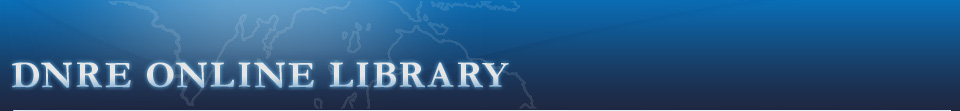
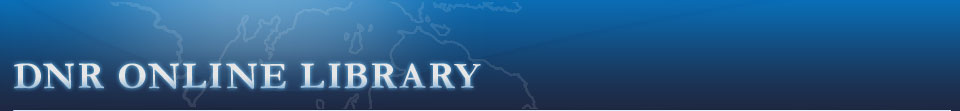
New graphics, and changes needed to display them

Changed region(s): [[0.0, 0.5405, 0.5312, 0.8378]]

diff --git a/theme/stylesheets/screen/core.css b/theme/stylesheets/screen/core.css
@@ -316,6 +316,7 @@ body  .wrapper {
 	display: inline;
 	margin-left: 4px;
 }
+#nav-home a,
 #nav-seek a,
 #nav-discover a
  {
@@ -326,13 +327,18 @@ body  .wrapper {
 	background: transparent no-repeat 0 100%;
 	text-indent: -1000em;
 }
-#nav-seek a {
-	background-image: url(/images/nav-bg-onoff.gif);	
+#nav-home a {
+	background-image: url(/images/nav-bg-home.png);	
 	background-position: 0 0;
 	width: 116px;
 }
+
+#nav-seek a {
+	background-image: url(/images/nav-bg-seek.png);	
+	width: 116px;
+}
 #nav-discover a {
-	background-image: url(/images/nav-bg-onoff.gif);
+	background-image: url(/images/nav-bg-discover.png);
 	width: 116px;
 }
 /* hover moves background of anchor */

diff --git a/theme/include/partials/header.php b/theme/include/partials/header.php
@@ -52,19 +52,19 @@ $css_includes = isset($css_includes) ? $css_includes : array();
     </script>
   <? endif; ?>
 </head>
-<body id="www-governingmichigan-gov" <? if(isset($body_class)): ?>class="<?= $body_class ?>"<? endif; ?>>
+<body id="dnr-seekingmichigan-org" <? if(isset($body_class)): ?>class="<?= $body_class ?>"<? endif; ?>>
   <div class="wrapper">
     <div id="header">
       <div class="wrapper">
         <h1>
           <a href="/">
             <span>
-              <img src="/images/" width="309" height="41" alt="Governing Michigan Logo" />
-              Governing Michigan
+              DNR Online Library
             </span>
           </a>
         </h1>
         <ul id="nav">
+          <li id="nav-home"><a href="/">Home</a></li>
           <li id="nav-seek"><a href="/seek"> Seek</a></li>
           <li id="nav-discover"><a href="/discover"> Discover</a></li>
         </ul>
